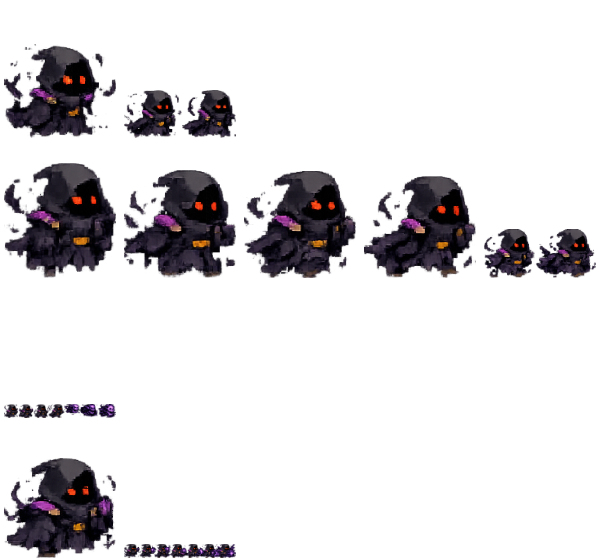
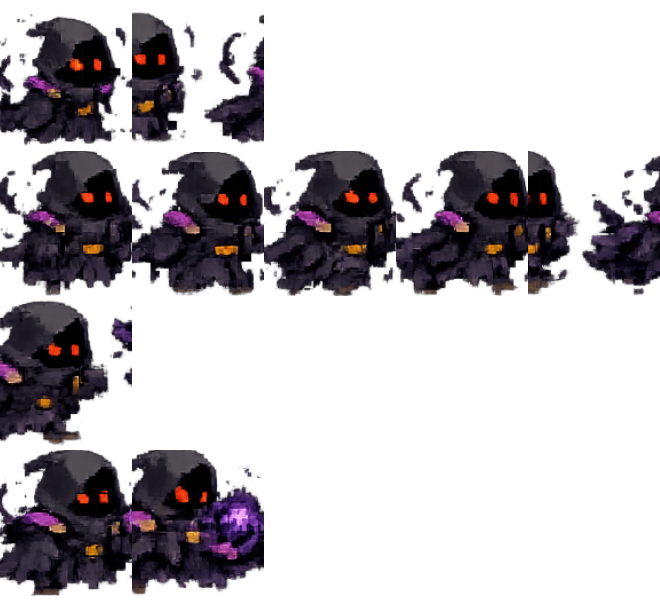
Flip archer too; keep character size constant across frames
- Set flip:true for Faye (archer) so all sheet heroes and the boss face the
  attack direction (right / toward the crystal for the boss).
- Fix characters shrinking between animations: the slicer scaled every frame to
  fit its cell independently, so bodies changed size row-to-row. Now each
  character is packed at ONE uniform scale derived from its idle-row body
  height; taller attack/cast frames overflow upward and are clipped to the
  cell, so the body stays the same size in every frame. Re-sliced all sheets.

verify7 updated (all sheet characters flipped) and passing.

Claude-Session: https://claude.ai/code/session_0137Kmgx8usseqRPpPc7daxH

diff --git a/sheets.js b/sheets.js
@@ -25,12 +25,11 @@ window.Sheets = (function () {
   const rows4 = (i,w,a,c) => ({ idle:{row:0,frames:i,fps:7}, walk:{row:1,frames:w,fps:9},
                                 attack:{row:2,frames:a,fps:12}, cast:{row:3,frames:c,fps:11} });
   // flip:true mirrors the sprite horizontally so it faces the incoming enemies
-  // (right). The archer art already faces right, so it isn't flipped. Aunel has
-  // no sheet and uses the built-in canvas art.
+  // (right). Aunel has no sheet and uses the built-in canvas art.
   const SHEET_CONFIG = {
     garran: { file:'warrior.png',  rows:4, cols:5, fit:1.25, flip:true, anim:rows4(5,2,1,1) },  // Knight  (warrior art)
     mira:   { file:'wizard.png',   rows:4, cols:8, fit:1.20, flip:true, anim:rows4(5,8,2,2) },  // Mage    (purple wizard art)
-    faye:   { file:'archer.png',   rows:4, cols:5, fit:1.20,            anim:rows4(5,5,1,2) },  // Archer  (already faces right)
+    faye:   { file:'archer.png',   rows:4, cols:5, fit:1.20, flip:true, anim:rows4(5,5,1,2) },  // Archer
     rai:    { file:'sorcerer.png', rows:4, cols:5, fit:1.22, flip:true, anim:rows4(5,1,1,1) },  // Ronin   (elemental sorcerer art)
     boss:   { file:'shadow.png',   rows:4, cols:5, fit:1.6,  flip:true, anim:rows4(2,5,1,2) },  // Boss    (shadow mage art)
   };

diff --git a/README.md b/README.md
@@ -124,10 +124,11 @@ toggle with the **🎨** button (or `?sheets=0` to force the built-in canvas art
 
 The hero/boss sheets are **sliced from uploaded source art** in `assets/raw/`
 (via `slice-sheets.mjs`, which strips the baked-in titles/labels and re-packs
-clean grids); Aunel (Healer) has no sheet and uses the built-in canvas art.
-Non-archer heroes and the boss are mirrored to face the incoming enemies. Any
-missing/broken sheet falls back to the built-in canvas art, so the game always
-runs.
+clean grids); Aunel (Healer) has no sheet and uses the built-in canvas art. All
+sheet heroes and the boss are mirrored to face the enemies, and each character
+is packed at a single uniform scale so its size stays constant across frames.
+Any missing/broken sheet falls back to the built-in canvas art, so the game
+always runs.
 
 ## Files
 
